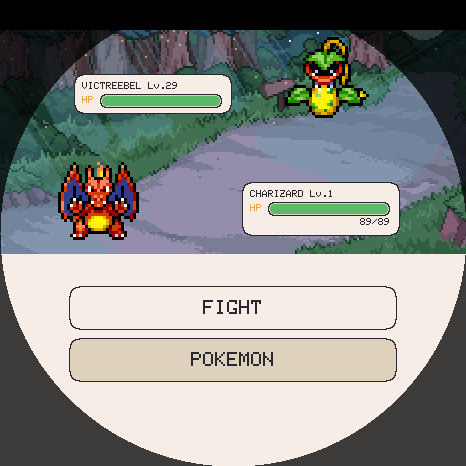
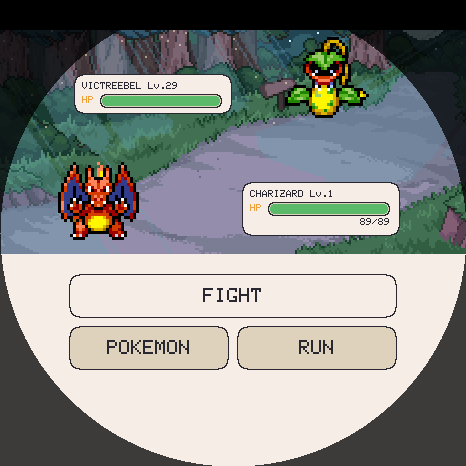
Battle menu gets RUN and a way back; enlarge the last small targets
Four reports from the board, all touch or navigation.

The battle root menu is now FIGHT across the top with POKEMON and RUN
side by side beneath it. Three full-width rows do not fit -- the panel is
round and the chord at that depth is only about 250 px -- and putting
the lower two in the move grid's cells means they inherit its padded hit
areas, which is what made POKEMON hard to press. RUN ends the fight, and
tells the peer first in a LAN battle so it is not left waiting for a
move that never comes.

The move and switch screens had no exit but choosing something. Both now
carry a BACK bar under the grid, which is why the whole panel moved up
12 px; the bottom row's downward padding shrank to 6 so it cannot reach
into BACK, the same overlap that BOX and CLOSE just had.

The gym list's EASY/HARD pill was 24 px tall -- half a fingertip -- and
team select had no way out but a swipe. Both now use UI_TAP_MIN, and
team select has BACK beside FIGHT.

Four tests were holding coordinates that the layout moved out from
under, which is them working. One of those, touch_test's cap check, had
been tapping x=233 -- now the gap between BACK and FIGHT -- so it was
passing because it hit nothing at all.

28 suites pass.

Changed region(s): [[0.1502, 0.6009, 0.8712, 0.8412], [0.8412, 0.6009, 0.8712, 0.6309], [0.1502, 0.6009, 0.1803, 0.6309]]

diff --git a/i18n.cpp b/i18n.cpp
@@ -45,7 +45,7 @@ static const char *const STRINGS[LANG_COUNT][STR_COUNT] = {
     "%s: %s", "PARALISIS", "QUEMADURA", "VENENO", "DORMIDO", "CONGELADO", "CONFUSION",
     "Has ganado!", "Has perdido...",
     "%s saca a %s", "Adelante, %s!", "GIMNASIOS", "MEDALLAS %u/8", "ENTRENADOR", "VELOCIDAD +%u", "toca: cambiar avatar", "%u en total", "NORMAL", "DIFICIL",
- "ELEGIDOS %u/%u", "LUCHAR", "BLOQUEADO", "POKEMON", "%s derrotado!", "MEDALLA NUEVA!", "VOL %u", "CAJA %u/%u", "cambiar con %s: elige hueco", "CAJA", "TRAER", "solo con un huevo", "COMBATE LAN", "CREAR", "UNIRSE", "buscando...", "listo!", "version distinta", "crear o unirse", "rival: %u mons", "el rival se fue", "esperando al rival...", "OTRA VEZ", "de que region viene el huevo", "%s +%u", "ya no puede entrenar mas",  },
+ "ELEGIDOS %u/%u", "LUCHAR", "BLOQUEADO", "POKEMON", "%s derrotado!", "MEDALLA NUEVA!", "VOL %u", "CAJA %u/%u", "cambiar con %s: elige hueco", "CAJA", "TRAER", "solo con un huevo", "COMBATE LAN", "CREAR", "UNIRSE", "buscando...", "listo!", "version distinta", "crear o unirse", "rival: %u mons", "el rival se fue", "esperando al rival...", "OTRA VEZ", "HUIR", "de que region viene el huevo", "%s +%u", "ya no puede entrenar mas",  },
   // ---------------- EN ----------------
   {
     "Evolving!", "Yum yum!", "It likes it!", "It's hungry!", "Needs a bath!",
@@ -84,7 +84,7 @@ static const char *const STRINGS[LANG_COUNT][STR_COUNT] = {
     "%s: %s", "PARALYSED", "BURNED", "POISONED", "ASLEEP", "FROZEN", "CONFUSED",
     "You win!", "You lost...",
     "%s sends out %s", "Go, %s!", "GYMS", "BADGES %u/8", "TRAINER",
- "SPEED +%u", "tap: change avatar", "%u earned in all", "EASY", "HARD", "CHOSEN %u/%u", "FIGHT", "LOCKED", "POKEMON", "%s defeated!", "NEW BADGE!", "VOL %u", "BOX %u/%u", "swap with %s: pick a slot", "BOX", "BRING BACK", "only while an egg waits", "LAN BATTLE", "HOST", "JOIN", "searching...", "ready!", "different version", "host or join", "rival: %u mons", "the rival left", "waiting for the rival...", "AGAIN", "where this egg comes from", "%s +%u", "trained as far as it can go",
+ "SPEED +%u", "tap: change avatar", "%u earned in all", "EASY", "HARD", "CHOSEN %u/%u", "FIGHT", "LOCKED", "POKEMON", "%s defeated!", "NEW BADGE!", "VOL %u", "BOX %u/%u", "swap with %s: pick a slot", "BOX", "BRING BACK", "only while an egg waits", "LAN BATTLE", "HOST", "JOIN", "searching...", "ready!", "different version", "host or join", "rival: %u mons", "the rival left", "waiting for the rival...", "AGAIN", "RUN", "where this egg comes from", "%s +%u", "trained as far as it can go",
   },
   // ---------------- FR ----------------
   {
@@ -123,7 +123,7 @@ static const char *const STRINGS[LANG_COUNT][STR_COUNT] = {
     "%s a rate!", "Coup critique!", "%s est K.O.!", "Il se blesse!",
     "%s: %s", "PARALYSIE", "BRULURE", "POISON", "ENDORMI", "GELE", "CONFUSION",
     "Gagne!", "Perdu...",
-    "%s envoie %s", "Vas-y, %s!", "ARENES", "BADGES %u/8", "DRESSEUR", "VITESSE +%u", "touche: changer d'avatar", "%u au total", "NORMAL", "DIFFICILE", "CHOISIS %u/%u", "COMBATTRE", "VERROUILLE", "POKEMON", "%s vaincu!", "NOUVEAU BADGE!", "VOL %u", "BOITE %u/%u", "echanger avec %s: choisis", "BOITE", "RAMENER", "seulement avec un oeuf", "COMBAT LAN", "CREER", "REJOINDRE", "recherche...", "pret!", "version differente", "creer ou rejoindre", "rival: %u mons", "le rival est parti", "en attente du rival...", "ENCORE", "d ou vient cet oeuf", "%s +%u", "ne peut plus progresser",
+    "%s envoie %s", "Vas-y, %s!", "ARENES", "BADGES %u/8", "DRESSEUR", "VITESSE +%u", "touche: changer d'avatar", "%u au total", "NORMAL", "DIFFICILE", "CHOISIS %u/%u", "COMBATTRE", "VERROUILLE", "POKEMON", "%s vaincu!", "NOUVEAU BADGE!", "VOL %u", "BOITE %u/%u", "echanger avec %s: choisis", "BOITE", "RAMENER", "seulement avec un oeuf", "COMBAT LAN", "CREER", "REJOINDRE", "recherche...", "pret!", "version differente", "creer ou rejoindre", "rival: %u mons", "le rival est parti", "en attente du rival...", "ENCORE", "FUIR", "d ou vient cet oeuf", "%s +%u", "ne peut plus progresser",
   },
   // ---------------- DE ----------------
   {
@@ -162,7 +162,7 @@ static const char *const STRINGS[LANG_COUNT][STR_COUNT] = {
     "%s hat verfehlt!", "Volltreffer!", "%s wurde besiegt!", "Es verletzt sich!",
     "%s: %s", "PARALYSE", "VERBRANNT", "VERGIFTET", "SCHLAEFT", "GEFROREN", "VERWIRRT",
     "Gewonnen!", "Verloren...",
-    "%s schickt %s", "Los, %s!", "ARENEN", "ORDEN %u/8", "TRAINER", "TEMPO +%u", "tippen: Avatar wechseln", "%u insgesamt", "NORMAL", "SCHWER", "GEWAEHLT %u/%u", "KAEMPFEN", "GESPERRT", "POKEMON", "%s besiegt!", "NEUER ORDEN!", "LAUT %u", "BOX %u/%u", "mit %s tauschen: waehle", "BOX", "ZURUECK", "nur mit einem Ei", "LAN KAMPF", "HOSTEN", "BEITRETEN", "suche...", "bereit!", "andere Version", "hosten oder beitreten", "Gegner: %u", "der Gegner ist weg", "warte auf den Gegner...", "NOCHMAL", "woher dieses Ei kommt", "%s +%u", "kann nicht weiter trainieren",
+    "%s schickt %s", "Los, %s!", "ARENEN", "ORDEN %u/8", "TRAINER", "TEMPO +%u", "tippen: Avatar wechseln", "%u insgesamt", "NORMAL", "SCHWER", "GEWAEHLT %u/%u", "KAEMPFEN", "GESPERRT", "POKEMON", "%s besiegt!", "NEUER ORDEN!", "LAUT %u", "BOX %u/%u", "mit %s tauschen: waehle", "BOX", "ZURUECK", "nur mit einem Ei", "LAN KAMPF", "HOSTEN", "BEITRETEN", "suche...", "bereit!", "andere Version", "hosten oder beitreten", "Gegner: %u", "der Gegner ist weg", "warte auf den Gegner...", "NOCHMAL", "FLUCHT", "woher dieses Ei kommt", "%s +%u", "kann nicht weiter trainieren",
   },
   // ---------------- IT ----------------
   {
@@ -201,7 +201,7 @@ static const char *const STRINGS[LANG_COUNT][STR_COUNT] = {
     "%s ha mancato!", "Brutto colpo!", "%s e\' esausto!", "Si e ferito!",
     "%s: %s", "PARALISI", "SCOTTATURA", "VELENO", "ADDORMENTATO", "CONGELATO", "CONFUSIONE",
     "Hai vinto!", "Hai perso...",
-    "%s manda %s", "Vai, %s!", "PALESTRE", "MEDAGLIE %u/8", "ALLENATORE", "VELOCITA +%u", "tocca: cambia avatar", "%u in totale", "NORMALE", "DIFFICILE", "SCELTI %u/%u", "LOTTA", "BLOCCATO", "POKEMON", "%s sconfitto!", "NUOVA MEDAGLIA!", "VOL %u", "BOX %u/%u", "scambia con %s: scegli", "BOX", "RIPORTA", "solo con un uovo", "LOTTA LAN", "CREA", "ENTRA", "ricerca...", "pronto!", "versione diversa", "crea o entra", "rivale: %u mons", "il rivale se n' e andato", "in attesa del rivale...", "ANCORA", "da quale regione viene l uovo", "%s +%u", "non puo allenarsi oltre",
+    "%s manda %s", "Vai, %s!", "PALESTRE", "MEDAGLIE %u/8", "ALLENATORE", "VELOCITA +%u", "tocca: cambia avatar", "%u in totale", "NORMALE", "DIFFICILE", "SCELTI %u/%u", "LOTTA", "BLOCCATO", "POKEMON", "%s sconfitto!", "NUOVA MEDAGLIA!", "VOL %u", "BOX %u/%u", "scambia con %s: scegli", "BOX", "RIPORTA", "solo con un uovo", "LOTTA LAN", "CREA", "ENTRA", "ricerca...", "pronto!", "versione diversa", "crea o entra", "rivale: %u mons", "il rivale se n' e andato", "in attesa del rivale...", "ANCORA", "FUGGI", "da quale regione viene l uovo", "%s +%u", "non puo allenarsi oltre",
   },
   // ---------------- PT ----------------
   {
@@ -240,7 +240,7 @@ static const char *const STRINGS[LANG_COUNT][STR_COUNT] = {
     "%s falhou!", "Acerto critico!", "%s desmaiou!", "Feriu-se!",
     "%s: %s", "PARALISIA", "QUEIMADURA", "VENENO", "A DORMIR", "CONGELADO", "CONFUSAO",
     "Ganhaste!", "Perdeste...",
-    "%s envia %s", "Vai, %s!", "GINASIOS", "MEDALHAS %u/8", "TREINADOR", "VELOCIDADE +%u", "toca: mudar avatar", "%u no total", "NORMAL", "DIFICIL", "ESCOLHIDOS %u/%u", "LUTAR", "BLOQUEADO", "POKEMON", "%s derrotado!", "NOVA MEDALHA!", "VOL %u", "CAIXA %u/%u", "trocar com %s: escolhe", "CAIXA", "TRAZER", "so com um ovo", "COMBATE LAN", "CRIAR", "ENTRAR", "a procurar...", "pronto!", "versao diferente", "criar ou entrar", "rival: %u mons", "o rival saiu", "a esperar pelo rival...", "OUTRA VEZ", "de que regiao vem o ovo", "%s +%u", "ja nao pode treinar mais",
+    "%s envia %s", "Vai, %s!", "GINASIOS", "MEDALHAS %u/8", "TREINADOR", "VELOCIDADE +%u", "toca: mudar avatar", "%u no total", "NORMAL", "DIFICIL", "ESCOLHIDOS %u/%u", "LUTAR", "BLOQUEADO", "POKEMON", "%s derrotado!", "NOVA MEDALHA!", "VOL %u", "CAIXA %u/%u", "trocar com %s: escolhe", "CAIXA", "TRAZER", "so com um ovo", "COMBATE LAN", "CRIAR", "ENTRAR", "a procurar...", "pronto!", "versao diferente", "criar ou entrar", "rival: %u mons", "o rival saiu", "a esperar pelo rival...", "OUTRA VEZ", "FUGIR", "de que regiao vem o ovo", "%s +%u", "ja nao pode treinar mais",
   },
 };
 

diff --git a/tools/emu/tests/touch_test.cpp b/tools/emu/tests/touch_test.cpp
@@ -322,7 +322,7 @@ int main(int argc, char **argv) {
   printf("PASS: battle starts with a squad of %u\n", btlSquadN);
 
   btlMenu = 0;
-  click(233, 286 + 52 + 22);            // POKEMON is the SECOND root row
+  click(150, 274 + 52 + 22);            // POKEMON: lower-LEFT cell now (RUN is right)
   if (btlMenu != 2) { printf("FAIL: POKEMON did not open the switch list\n"); return 1; }
   printf("PASS: POKEMON opens the switch list\n");
 
@@ -395,14 +395,17 @@ int main(int argc, char **argv) {
   squadMask = 0xFFFF;
   pickTrainer = 0; pickHard = true; pickOpen = true;   // BROCK: cap of 2
   uint8_t cap = squadCap(0, true);
-  click(233, 370);                                     // FIGHT with 6 chosen
+  // x=300: FIGHT sits right of centre now, with BACK to its left. Tapping 233
+  // lands in the gap between them and hits nothing, which made the next check
+  // pass for the wrong reason.
+  click(300, 366);                                     // FIGHT with 6 chosen
   if (battleOpen || !pickOpen) { printf("FAIL: FIGHT fired while over the cap\n"); return 1; }
   printf("PASS: FIGHT is inert while over the cap (%u chosen, cap %u)\n", 6, cap);
 
   // deselect down to the cap, then it should start
   for (int slot = 5; slot >= (int)cap; slot--)
     click(PICK_X(slot) + 40, PICK_Y(slot) + 30);
-  click(233, 370);
+  click(300, 366);
   if (!battleOpen) { printf("FAIL: FIGHT did not start at the cap\n"); return 1; }
   printf("PASS: trimming to the cap lets the fight start (squad %u)\n", btlSquadN);
   if (btlSquadN > cap) { printf("FAIL: squad exceeded the cap\n"); return 1; }

diff --git a/tools/emu/tests/hit_test.cpp b/tools/emu/tests/hit_test.cpp
@@ -45,7 +45,7 @@ int main(){
   while (pet.hasLearnOffer()) pet.declineLearn();
 
   // Sweep the whole grid area and record which cell each pixel belongs to.
-  const int X0 = 40, X1 = 430, Y0 = 270, Y1 = 420;
+  const int X0 = 40, X1 = 430, Y0 = 258, Y1 = 410;
   int area[4] = {0,0,0,0};
   int overlap = 0;
   int gapRow = 0, gapCol = 0;
@@ -69,7 +69,7 @@ int main(){
 
   // no dead horizontal seam between the rows
   int seam = 0;
-  for (int y = 328; y <= 340; y++)
+  for (int y = 316; y <= 328; y++)
     if (btlCellIndexAt(200, y) < 0) seam++;
   ck(seam == 0, "no dead gap between the two rows");
   (void)gapRow; (void)gapCol; (void)overlap;
@@ -82,7 +82,7 @@ int main(){
 
   // a tap just below the bottom row still counts -- that is where a finger
   // reaching for the lowest button actually lands
-  ck(btlCellIndexAt(150, 392) == 2 && btlCellIndexAt(320, 392) == 3,
+  ck(btlCellIndexAt(150, 372) == 2 && btlCellIndexAt(320, 372) == 3,
      "a low tap still reaches the bottom row");
 
   // The four boxes must TILE: the seam between them is one pixel wide, owned by
@@ -90,7 +90,7 @@ int main(){
   // rectangles here -- a test that copies the geometry drifts from it.
   ck(btlCellIndexAt(232, 300) == 0 && btlCellIndexAt(233, 300) == 1,
      "the column seam belongs to exactly one side");
-  ck(btlCellIndexAt(200, 333) == 0 && btlCellIndexAt(200, 334) == 2,
+  ck(btlCellIndexAt(200, 321) == 0 && btlCellIndexAt(200, 322) == 2,
      "and so does the row seam");
 
   // finally, drive a real tap low in the bottom-left cell through battleTap

diff --git a/tools/emu/tests/lan_test.cpp b/tools/emu/tests/lan_test.cpp
@@ -183,7 +183,7 @@ int main(){
     squadMask = (1 << 0) | (1 << 2);
     ck(pickChosen()==2, "two chosen");
     lan.begin(true,"T");
-    pickTap(200, 355);                    // FIGHT
+    pickTap(300, 366);                    // FIGHT (right of BACK now)
     ck(!pickOpen && lanOpen, "confirming the team opens the LAN screen");
     ck(lan.mineN==2, "and offers exactly what was chosen, not the whole party");
     ck(lan.mine[1].dex==35, "including the right party member");

diff --git a/i18n.h b/i18n.h
@@ -113,6 +113,7 @@ enum StrId : uint8_t {
   S_LAN, S_LAN_HOST, S_LAN_JOIN, S_LAN_WAIT, S_LAN_READY, S_LAN_REFUSED,
   S_LAN_PICK, S_LAN_VS,
   S_LAN_GONE, S_LAN_WAITFOE, S_LAN_REMATCH,
+  S_BTL_RUN,        // the third option in a fight: leave it
   S_EGG_REGION,     // hint under the egg's region pill
   S_WIN_TRAIN_FMT,  // "%s +%u" -- the training a gym win is worth
   S_WIN_MAXED,      // ... or that there is nowhere left to train
